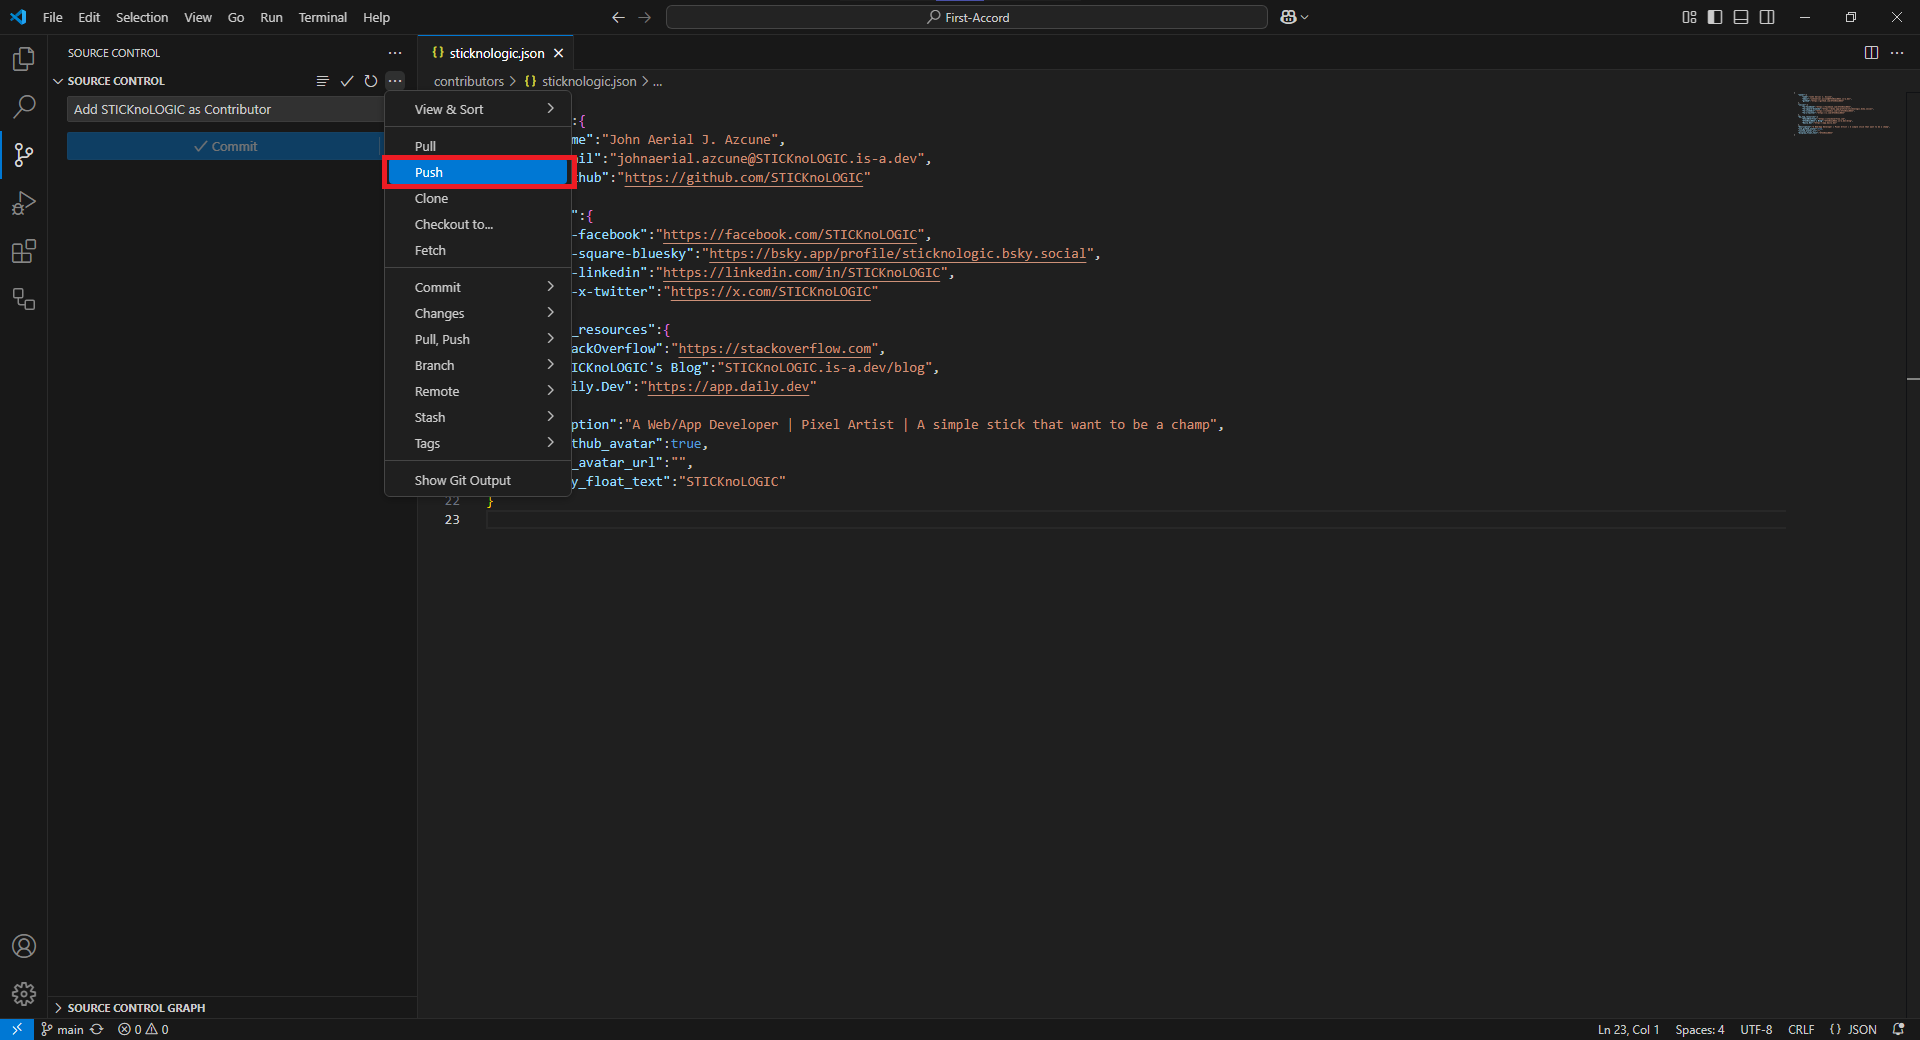
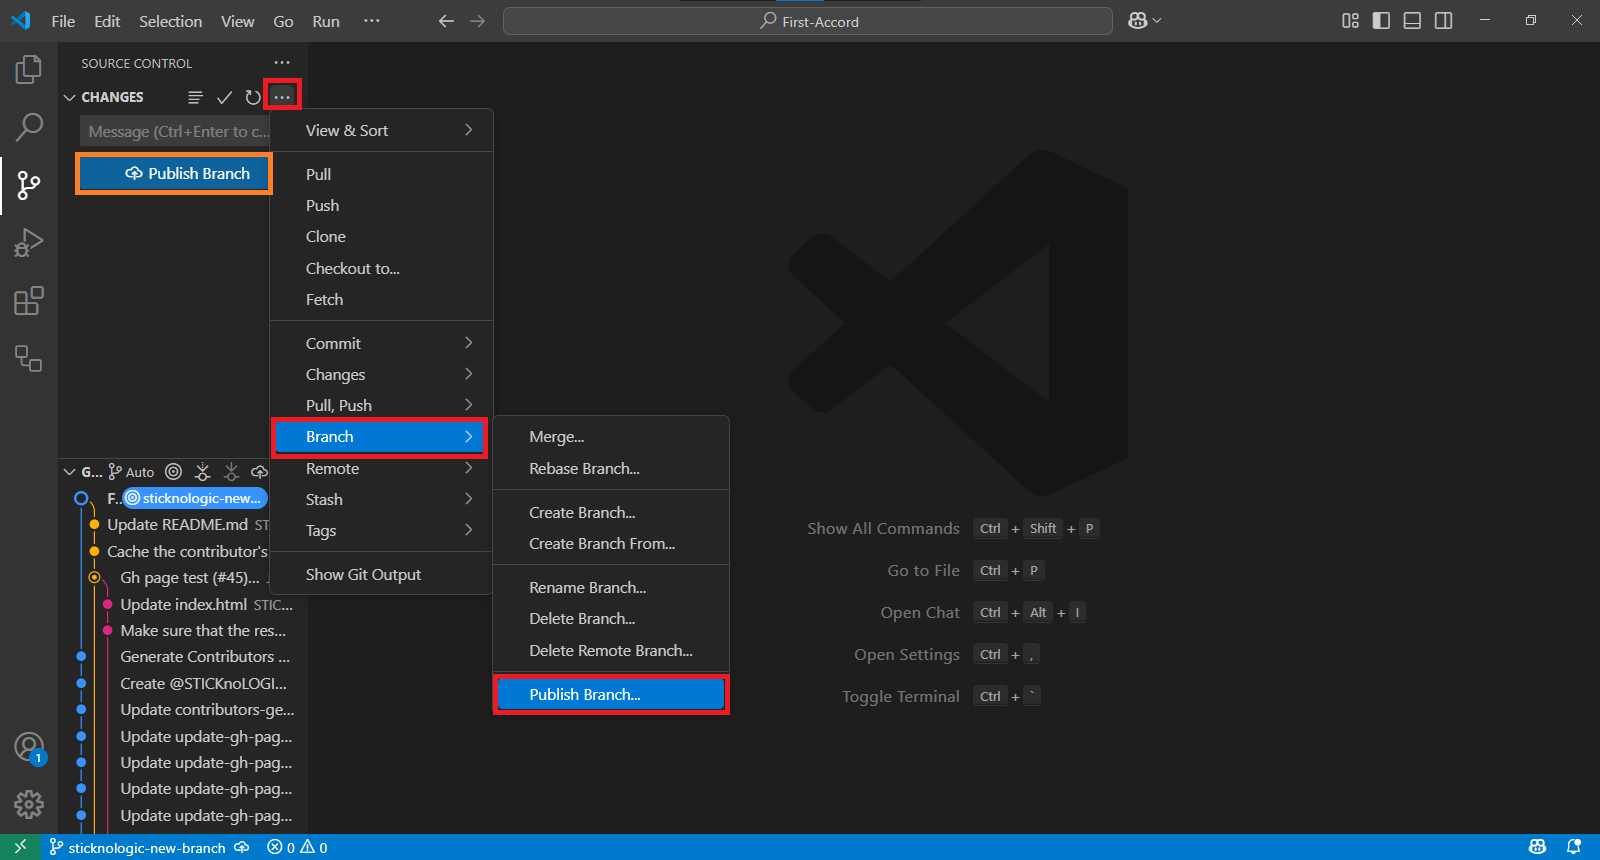
Update VisualSutdio code Tutorial

diff --git a/guide/github-vscode.md b/guide/github-vscode.md
@@ -48,6 +48,15 @@ Where `this-is-you` is your Github username.
 
 You should see a status popup on the bottom right of Visual Studio Code. After it has finished, you can open up the cloned repository (now a folder on your machine) using the buttons in the dialog.
 
+## Create a Branch
+Open up the command palette again by pressing `F1` or `CTRL + SHIFT + P`. Type in `branch` and select the create branch command from there.
+
+<img src="/assets/vscode/branch.png" alt="Branch1" />
+
+In the next step type in the name of your new branch, for example `sticknologic-new-branch`. Press enter and the branch will be created.
+
+<img src="/assets/vscode/branch2.png" alt="Branch2" />
+
 ## Make necessary changes
 
 Go to the `contributors` Folder/Directory and copy the content of `__TEMPLATES__.json` (the template consists of essential/required parameters in JSON structure. To know more, [visit JSON Structure](json-structure))
@@ -70,7 +79,13 @@ Enter text in the field above the explorer and hit the checkmark. The modificati
 
 <img src="/assets/vscode/push.png" alt="Stashed Files">
 
-Tap the three-dot icon to access the menu, and then choose the `Publish Branch` option. This should initiate a prompt for you to enter your GitHub credentials.
+(Orange Box) You can Click the `Publish Branch` button
+
+or
+
+(Red Box) Tap the three-dot icon to access the menu, Click `Branch` and then choose the `Publish Branch` option.
+
+This should initiate a prompt for you to enter your GitHub credentials.
 
 <img src="/assets/vscode/gh-auth.png" alt="gh auth">
 
@@ -86,7 +101,7 @@ Now submit the pull request.
 
 <img src="/assets/submit-pull-request.png" alt="submit pr" />
 
-I'll be merging all of your modifications into the project's main branch shortly. Once the changes have been merged, you will receive an email notification. 
+I'll be merging all of your modifications into the project's main branch shortly. Once the changes have been merged, you will receive an email notification.
 
 ## Where to go from here?
 
@@ -101,6 +116,5 @@ Let's help you get started with contributing to other projects. I recommend begi
 
 ## Tutorials Using Other Tools
 | <img alt="cli" src="https://raw.githubusercontent.com/felixse/FluentTerminal/refs/heads/master/Icons/Icon_no_margin.png" width="100"> | <img alt="GitHub Desktop" src="https://desktop.github.com/images/desktop-icon.svg" width="100"> | <i class="fa-solid fab fa-chrome fa-6x" style="color:lightblue"></i> |
-| :------------------: | :------------------: | :------------------: |  
+| :------------------: | :------------------: | :------------------: |
 | [Command Line Interface](guide/github-cli) | [GitHub Desktop](guide/github-desktop) |[Browser](guide/github-browser)
-
